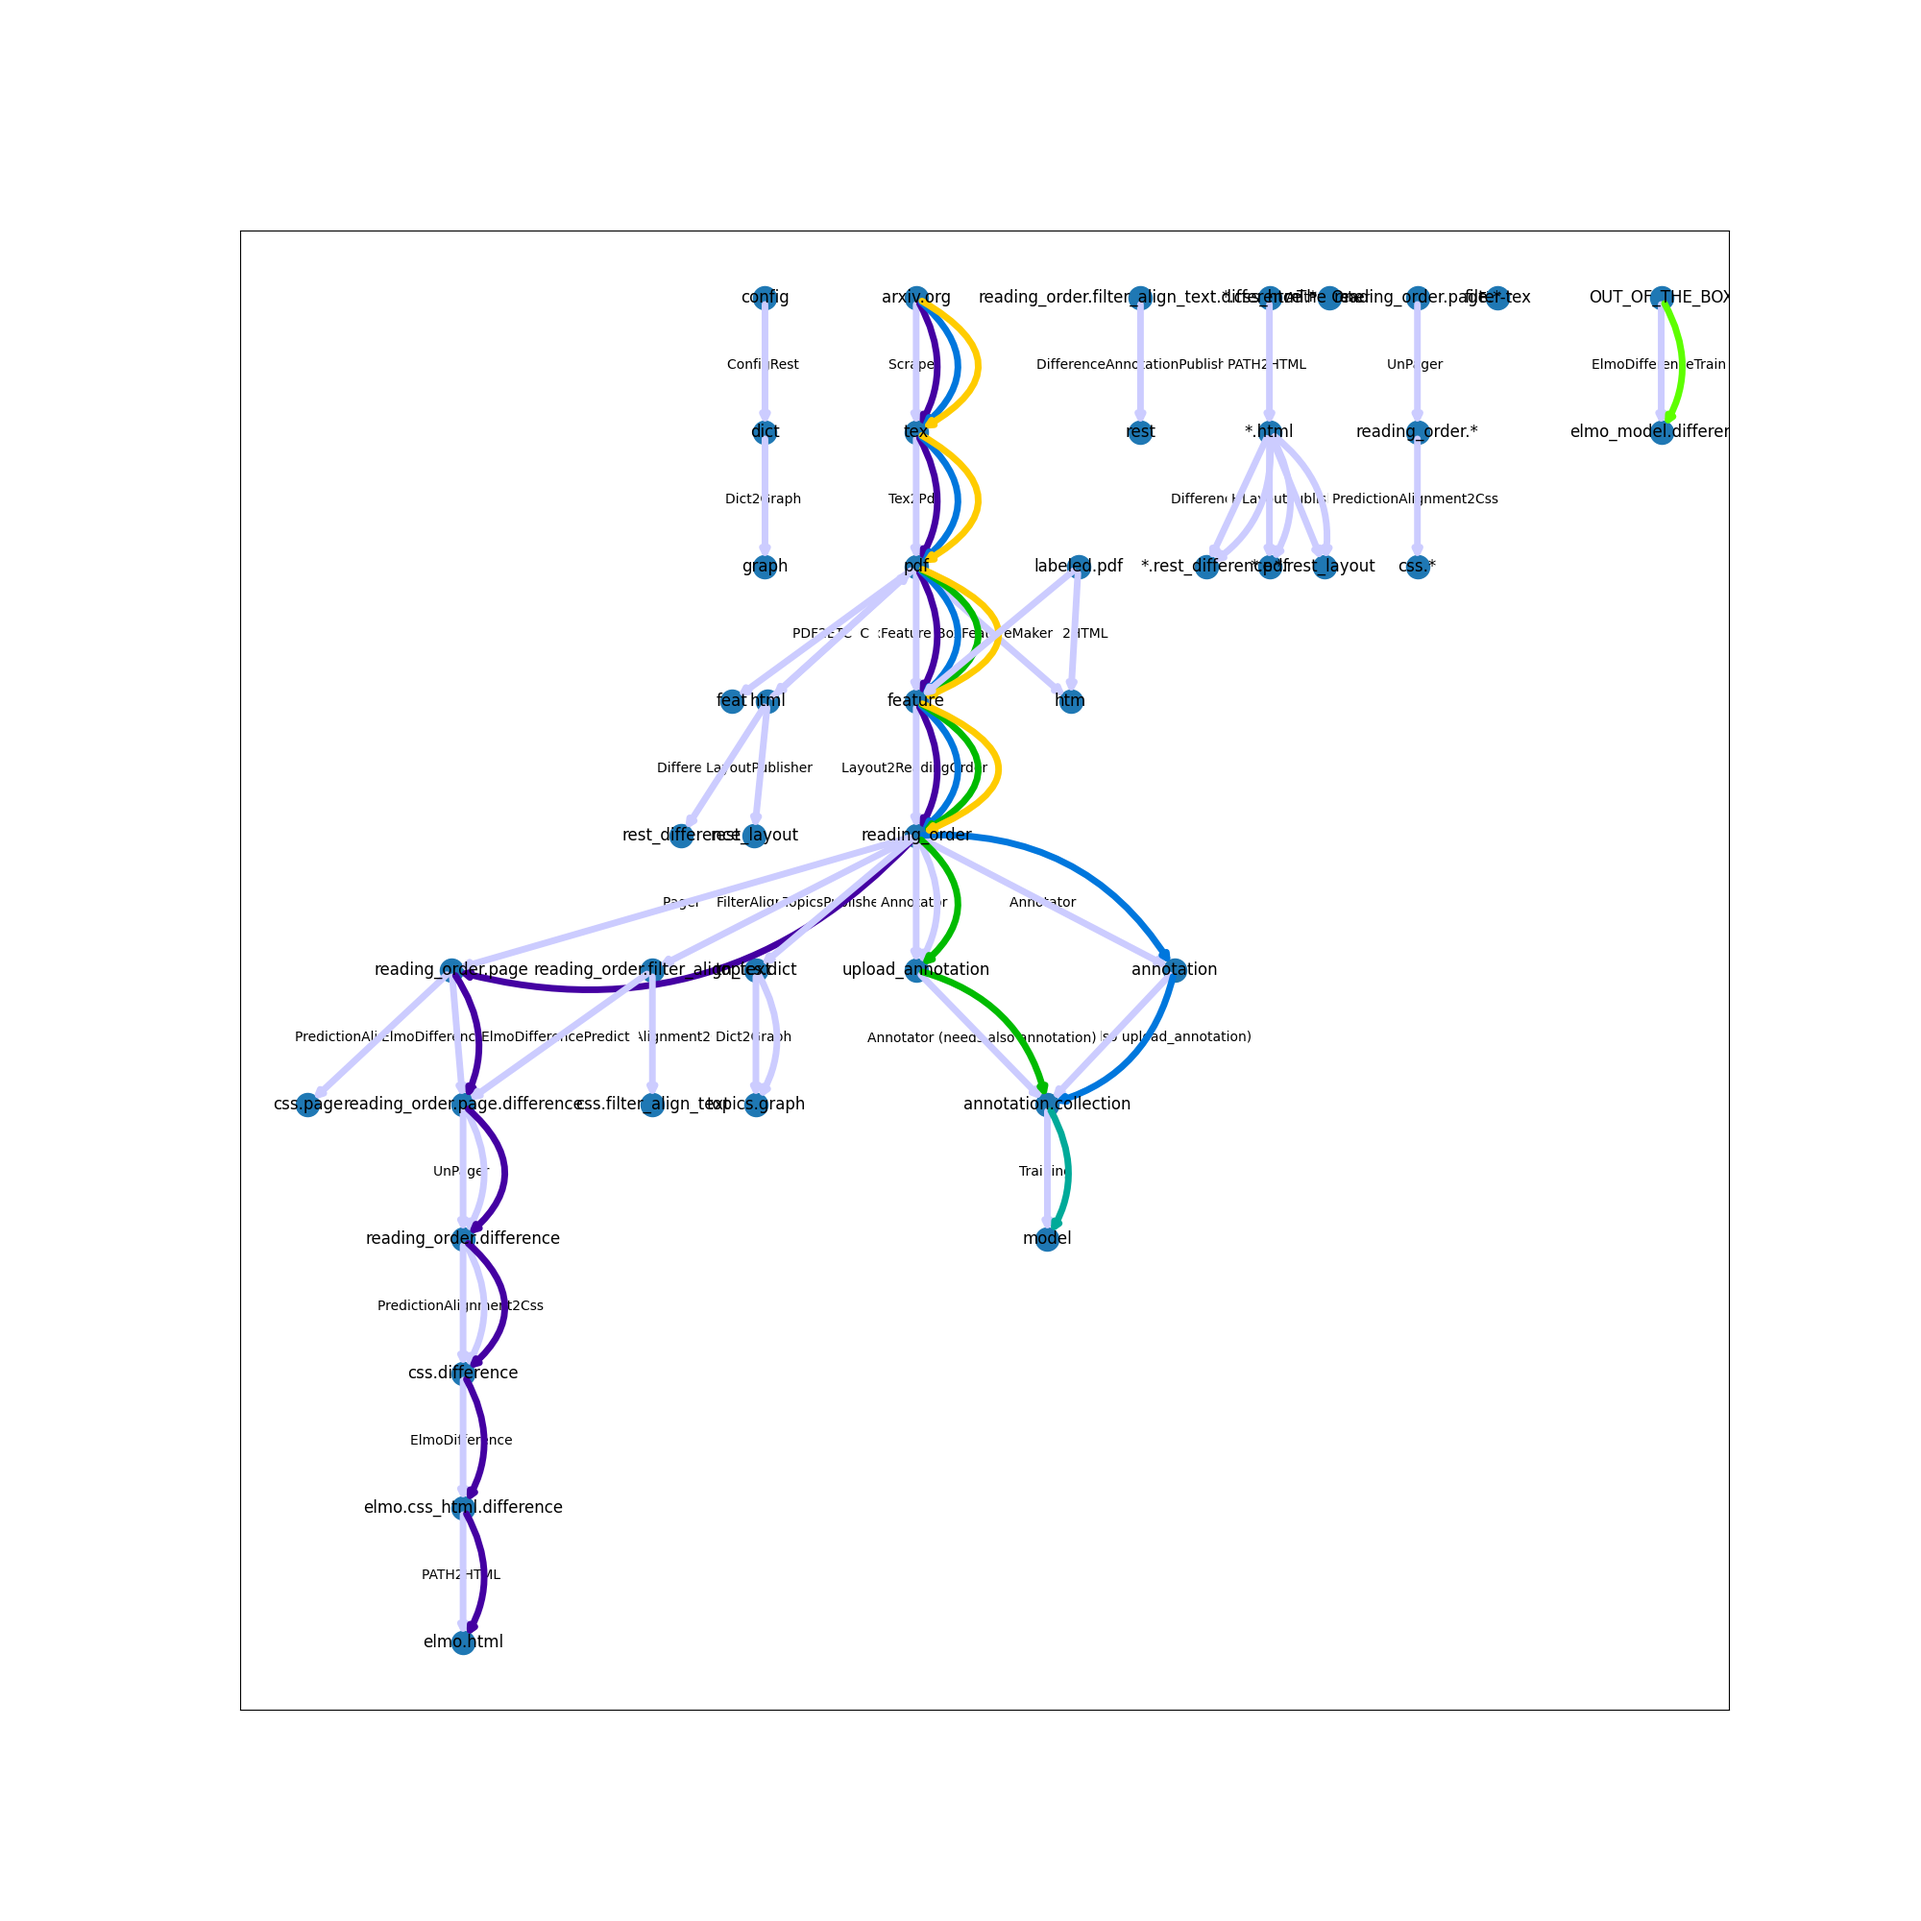
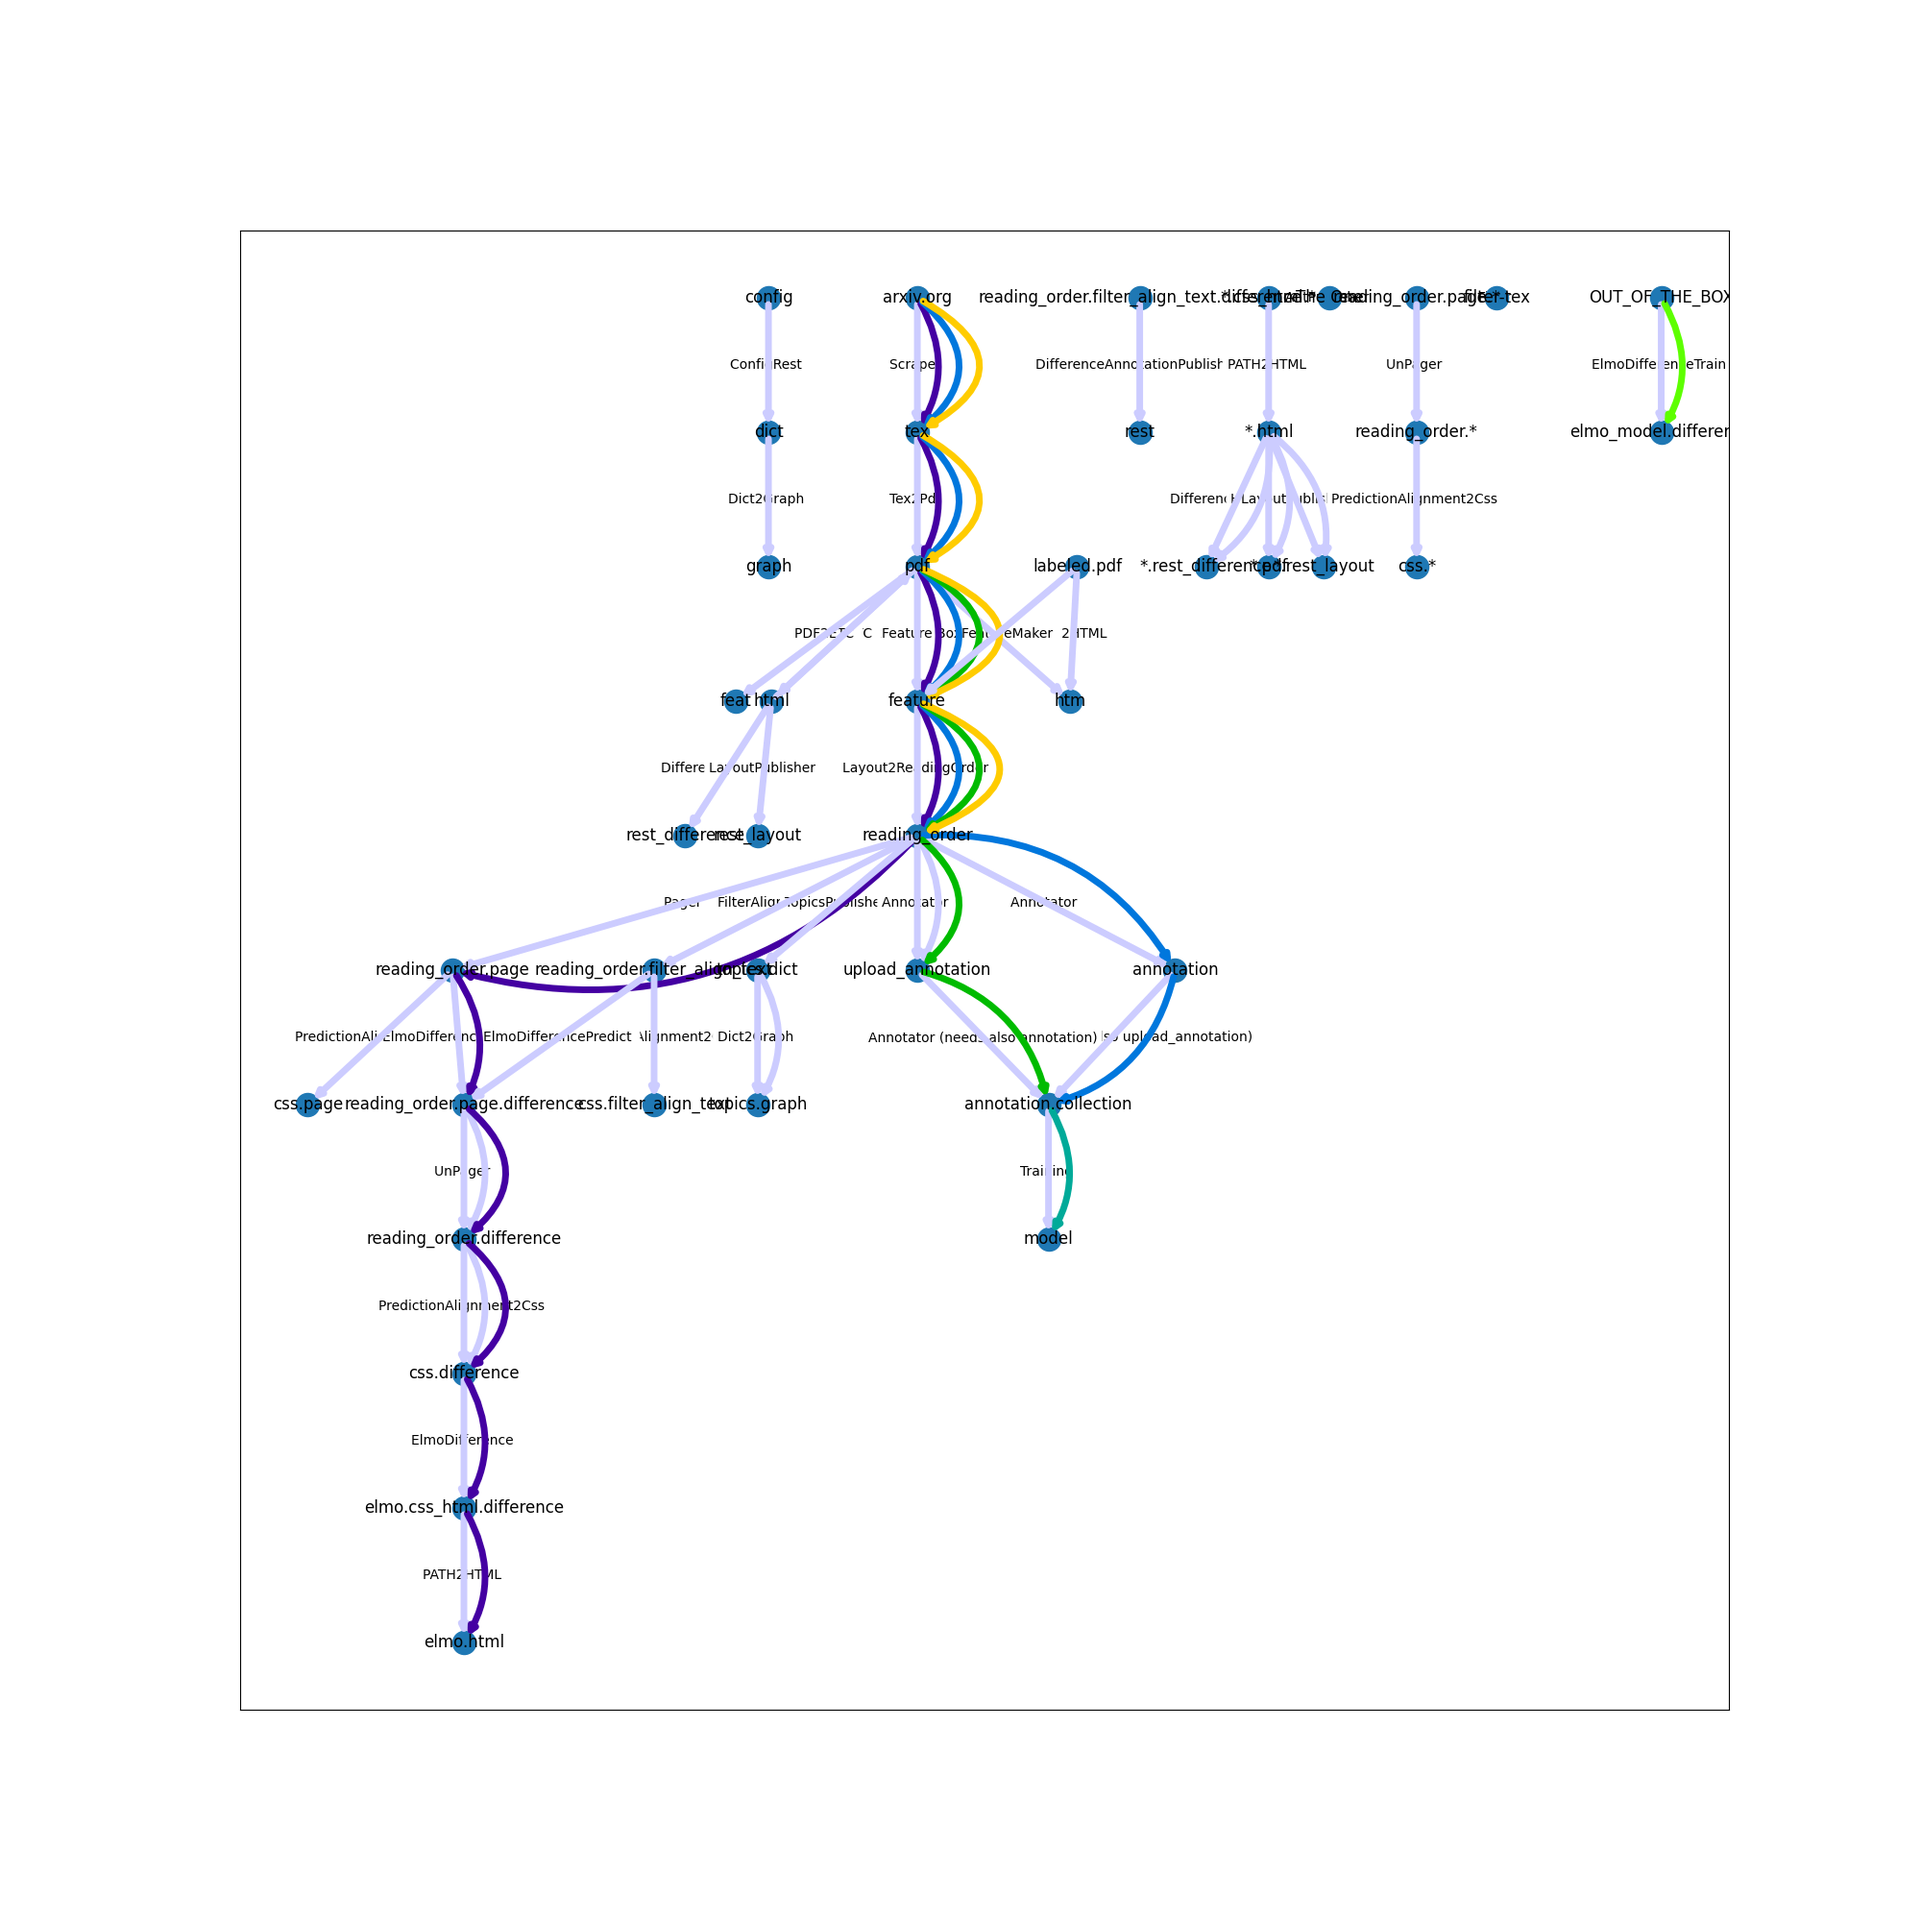
python 10 not working

diff --git a/react/layout_viewer_made/components/SpriteText.js b/react/layout_viewer_made/components/SpriteText.js
@@ -1,3 +1,3 @@
-import SpriteText from 'three-spritetext'
+import SpriteText from "three-spritetext";
 
-export default SpriteText
+export default SpriteText;

diff --git a/python/language/text2speech/Txt2Mp3.py b/python/language/text2speech/Txt2Mp3.py
@@ -2,11 +2,20 @@ import os
 from pprint import pprint
 
 from ant import Ant
+from core import config
 from core.pathant.Converter import converter
 from core.pathant.PathSpec import cache_flow
 
+import torchaudio
+from speechbrain.pretrained import Tacotron2
+from speechbrain.pretrained import HIFIGAN
 
-@converter('txt', 'mp3')
+# Intialize TTS (tacotron2) and Vocoder (HiFIGAN)
+tacotron2 = Tacotron2.from_hparams(source="speechbrain/tts-tacotron2-ljspeech", savedir="tmpdir_tts")
+hifi_gan = HIFIGAN.from_hparams(source="speechbrain/tts-hifigan-ljspeech", savedir="tmpdir_vocoder")
+
+
+@converter('reading_order.page', 'mp3')
 class Txt2Mp3(Ant):
     def __init__(self, debug=True, *args, n=15, **kwargs):
         super().__init__(*args, cached=cache_flow.iterate, **kwargs)
@@ -14,18 +23,22 @@ class Txt2Mp3(Ant):
         self.debug = debug
 
     def __call__(self, iterator, *args, **kwargs):
-        for text, meta in iterator:
-            txt_path = meta['html_path'] + ".txt"
-            meta['txt_path'] = txt_path
-            meta['mp3_path'] = txt_path + '.mp3'
-            text = "\n\n".join(text)
-            with open(txt_path, "w") as f:
-                f.write(text)
+        for id, meta in iterator:
+            text = meta["text"]
+            path = meta["html_path"]
+            audio_path = f'{path}.{config.audio_format}'
 
-                self.logger.info(f"encoding \"{text[100:]}\" as mp3 on path {meta['mp3_path']}")
-            os.popen(f"text2wave -eval  '(nitech_us_bdl_arctic_hts)'  {meta['txt_path']} -o out.wave").read()
-            os.popen(f"lame out.wave {meta['mp3_path']}").read()
-            yield meta['mp3_path'], meta
+            # Running the TTS
+            mel_output, mel_length, alignment = tacotron2.encode_text(text)
+
+            # Running Vocoder (spectrogram-to-waveform)
+            waveforms = hifi_gan.decode_batch(mel_output)
+
+            # Save the waverform
+            torchaudio.save(audio_path, waveforms.squeeze(1), 22050)
+
+            yield
+
 
 
 if __name__ == "__main__":

diff --git a/python/core/config.py b/python/core/config.py
@@ -71,7 +71,7 @@ torch.cuda.empty_cache()
 try:
     free_gpu_cache()
 except Exception as e:
-    logging.error("No cuda available!", e)
+    logging.error("No cuda/gpu available!")
 
 feature_fuzz_ranges = (-0.02, 0.04, 0.02),
 sys.path.append(os.getcwd())
@@ -170,3 +170,4 @@ PORT = 7789
 
 TOPIC_TEXT_LENGTH = 180
 spacy_model_name = 'en_core_web_trf'
+audio_format = "ogg"
